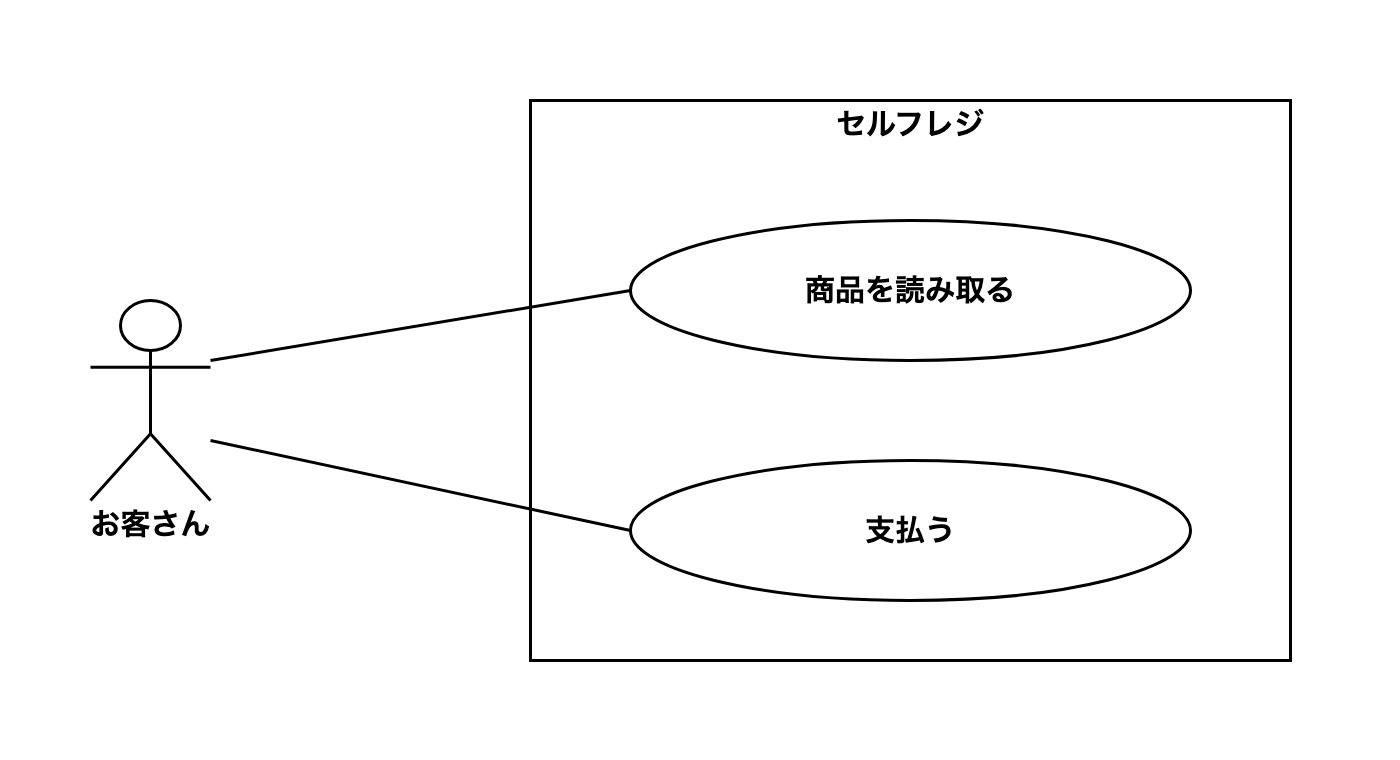
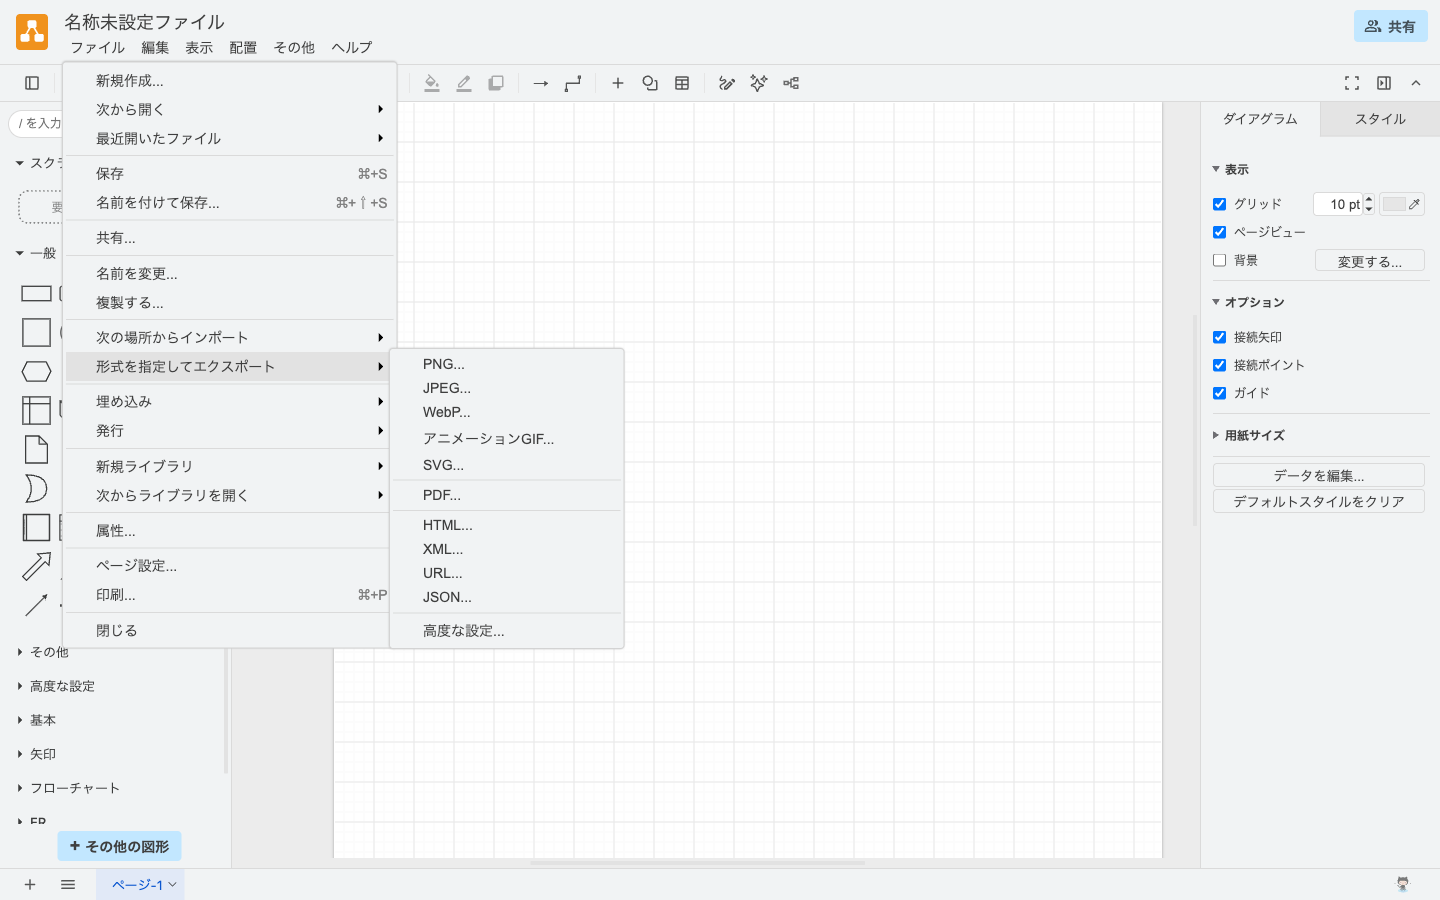
13-1: 通読フィードバックを反映（実装との関係・V字モデル・draw.io操作）
13-1-1:
- 実装を先に学んだ理由を追記。設計を書く言葉が実装の言葉なので、
  「保存処理をコントローラーとモデルのどちらに置くか」に答えられるのは
  その2つが何をする場所かを知っている人だけ、という形で説明した
- 「設計しないと何が起きるか」の締めに抽象と具体を追記。設計は抽象を
  具体へ降ろす作業で、降ろしきれず残ったところが「たぶんこうだろう」で
  埋まり、そこで手戻りが起きる、と手戻りの説明につないだ

13-1-2:
- V字モデルをTIP1文から図付きの節に格上げ。左が決める工程、右が確かめる
  工程で、同じ高さのものが対になる。テスト側の呼び名は教材で既に使って
  いる単体テスト（10-5-3）・機能テスト（10-5-4）に揃え、受け入れテストは
  Chapter 2で書く受け入れ条件につないだ
- 「テストが書けない設計は決めきれていない設計」を、13-1-1の「答えを
  設計書の中から指して示せるか」の別の言い方として置いた
- 工程の矢印の説明に、抽象から具体へ降ろす向きだという一文を足した

13-1-3:
- 🏃の入口に、見た目を整えなくてよい旨を追記（従来は答え合わせの中にしか
  書いておらず、手を動かす前に読めなかった）。整列や色の機能は最後まで
  使わないことも明記した
- Step 3 に画像を追加。線をつなぐ操作は文章だけでは伝わらないため、
  棒人間から楕円へ線を伸ばし、つなぎ先が青く光っている状態を載せた。
  つなぎ先が光らないまま離したときの直し方も注意に足した
- Step 4 の保存ダイアログで「場所」の欄が出ない場合を追記。ブラウザの
  設定によってはクラウドのサービスが出せず、保存先が自分のPCしか無い
  状態になる。実機で確認したところ欄の有無は環境によって変わった
- Step 4 の画像を、図を描いた状態のものに差し替え（従来はキャンバスが
  空で、Step 3 まで進んだ人の画面と違っていた）
- 画像を1枚足したので _4 以降を繰り下げ（_4→_5、_5→_6、_6→_7）

図: image/diagram-src/13-1-2_2.drawio を追加。

diff --git a/curriculums/tutorial-13: システム設計を学ぼう📐/chapter-1: 設計の全体像/13-1-3_UMLと作図の約束事.md b/curriculums/tutorial-13: システム設計を学ぼう📐/chapter-1: 設計の全体像/13-1-3_UMLと作図の約束事.md
@@ -151,6 +151,8 @@ code .
 
 > ⚠ **注意**: この棒人間・四角・楕円・線が設計の上で持つ意味は、Chapter 2で学びます。ここでの目的は、シェイプを思ったとおりに置き、線でつなぎ、保存と書き出しができることです。
 
+見た目は整えなくて構いません。大きさがばらばらでも、位置が揃っていなくても、線が斜めでも、直さずに進めてください。設計書の図を読む人が見るのは、何がいくつあって、どれとどれがつながっているかだけです。draw.ioには整列や色の機能もありますが、この教材では最後まで使いません。この先の章でも同じで、配置の調整に時間を使わないでください。
+
 ### Step 1: 棒人間と四角を置く
 
 `https://app.diagrams.net/` を開き、左上の検索ボックスに `actor` と入力してEnterを押します。検索結果の先頭に棒人間が出てきます。
@@ -181,9 +183,17 @@ code .
 
 検索ボックスに `ellipse` と入力して楕円を出し、四角の中に上下に並べて2つ置きます。上の楕円に「商品を読み取る」、下の楕円に「支払う」と入力します。
 
-つないでいきます。棒人間の縁にカーソルを合わせると、青い矢印と×印が出ます。そこからドラッグして、「商品を読み取る」の楕円の上で離すと、2つが線で結ばれます。同じ手順で、棒人間と「支払う」もつなぎます。
+つないでいきます。棒人間にカーソルを合わせると、まわりに青い矢印が4つと、縁に青い×印が出ます。この×印が線をつなげる場所です。×印からボタンを押したままカーソルを「商品を読み取る」の楕円まで動かすと、線が伸びていきます。つなぎ先の楕円が青く光ったところでボタンを離すと、2つが結ばれます。
+
+**棒人間から楕円へ線を伸ばしているところ**
+
+<img alt="13-1-3_4.png" src="../../../image/13-1-3_4.png">
+
+同じ手順で、棒人間と「支払う」もつなぎます。
 
 > ⚠ **注意**: 引いた線の端に矢印が付くことがありますが、付いたままで構いません。線の向きに意味があるかどうかは、それぞれの図を学ぶ章で説明します。
+>
+> つなぎ先が青く光らないままボタンを離すと、線の先が楕円につながらず、その場に取り残されます。この状態でシェイプを動かすと線が付いてこないので、そのときは `⌘+Z`（Windowsでは `Ctrl+Z`）で取り消して、引き直してください。
 
 ### Step 4: .drawioファイルとして保存する
 
@@ -191,15 +201,17 @@ code .
 
 **保存のダイアログ**
 
-<img alt="13-1-3_4.png" src="../../../image/13-1-3_4.png">
+<img alt="13-1-3_5.png" src="../../../image/13-1-3_5.png">
 
-3つの欄を、次のように決めます。
+欄を、次のように決めます。
 
 | 欄 | 決めること |
 |:-----|:-----------|
 | 名前を付けて保存 | ファイル名。`self-checkout.drawio` と入力します。あとで中身が分かる英数字の名前にするのが、この先の決まりです |
 | タイプ | ファイルの形式。既定の `XMLファイル (.drawio)` のままにします |
 | 場所 | 保存先。**デバイス**（自分のPC）に変えます。画像のように「Google ドライブ」が選ばれていることがあります |
+
+「場所」の欄は、出ないこともあります。ブラウザの設定によっては、draw.ioがクラウドのサービスをつなぎ先として出せず、保存先が自分のPCしか無い状態になるからです。その場合は選ぶものが無いだけなので、名前とタイプだけ決めて先へ進んでください。
 
 「保存」を押すと、そのままダウンロードフォルダへ保存されるか、保存先のフォルダを選ぶ画面が開くかのどちらかです（2026年8月時点）。選ぶ画面が開いた場合もダウンロードフォルダを選び、あとで `docs/13-1/` へ移します。
 
@@ -213,7 +225,7 @@ code .
 
 **ファイルメニューからPNGの書き出しを選んだところ**
 
-<img alt="13-1-3_5.png" src="../../../image/13-1-3_5.png">
+<img alt="13-1-3_6.png" src="../../../image/13-1-3_6.png">
 
 「イメージ」というダイアログが開きます。ズームやサイズなどの項目は既定のまま「エクスポート」を押すと、PNGファイルがダウンロードフォルダに入ります。ファイル名が `self-checkout.png` になっていなければ、その名前に変えてください。
 
@@ -256,7 +268,7 @@ pushしたら、GitHubの `post-app-practice` を開きます。`docs/13-1/` に
 
 **セルフレジの練習図の例**
 
-<img alt="13-1-3_6.png" src="../../../image/13-1-3_6.png">
+<img alt="13-1-3_7.png" src="../../../image/13-1-3_7.png">
 
 次の観点で、自分の画面と見比べます。
 

diff --git a/curriculums/tutorial-13: システム設計を学ぼう📐/chapter-1: 設計の全体像/13-1-1_設計とは何か.md b/curriculums/tutorial-13: システム設計を学ぼう📐/chapter-1: 設計の全体像/13-1-1_設計とは何か.md
@@ -46,6 +46,8 @@ Tutorial 13が扱うのは、2番の要件定義・設計です。
 
 Tutorial 12までで積み上げてきたのが、真ん中の「書ける・読める」です。一番下の「任せて検証できる」に降ろせる作業は、これから増えていきます。一番上の「設計できる」だけは、他へ渡せません。ここを白紙から作れるようにするのが、Tutorial 13です。
 
+学ぶ順番が逆に見えるかもしれません。仕事の流れは設計が先で実装が後なのに、この教材は実装を先にやりました。そうしたのは、設計を書くときに使う言葉が、実装の言葉だからです。たとえば「投稿を保存する処理を、コントローラーとモデルのどちらに置くか」は設計で決めることですが、この問いに答えられるのは、その2つが何をする場所かを知っている人だけです。テーブルにどんなカラムを持たせるかも、外部キーや `NOT NULL` が何をしてくれるのかを知らないままでは決められません。**読めないコードの構造は、設計できません。** Tutorial 9でMVCを、Tutorial 8でデータベースを先にやったのは、そのためです。
+
 ---
 
 ## 🔑 設計とは「実装に入れる状態」を作ること
@@ -91,6 +93,8 @@ Tutorial 12までで積み上げてきたのが、真ん中の「書ける・読
 | 動かして依頼者に見せたあと | 上のすべてに加えて、すでに保存されたデータの移し替えも必要になる |
 
 3つ目の「総務の担当者は取り消せるのか」だと、範囲は横にも広がります。総務の人が見ているときだけ取り消しボタンを出す画面の出し分け、Tutorial 10のChapter 3「権限の管理」で学んだ認可（そのユーザーがその操作をしてよいかを判定する仕組み）の処理、そもそも誰が総務の担当者なのかを見分けるための列が社員のテーブルにあるか。この3か所をまとめて直すことになります。設計の段階なら、「総務の担当者は、他の社員の貸出記録を取り消せる」と1行書き留めておくだけで済んだ話です。
+
+設計と実装の違いは、抽象と具体の違いでもあります。「社員が備品を借りて、返す」は抽象です。「貸出のテーブルに、借りた社員のID・備品のID・借りた日・返した日を持たせる」は具体です。設計とは、抽象を具体へ降ろしていく作業で、降ろしきれずに残ったところが、作る人の「たぶんこうだろう」で埋まります。手戻りは、いつもその埋めたところで起きます。上に挙げた3つは、どれも降ろしきれていない例です。
 
 実装をAIに任せられる時代ほど、設計の曖昧さは高くつきます。1日かけて手で書いていた画面が数分ででき上がるなら、間違った前提のまま作られる量も、その速さで増えるからです。
 
